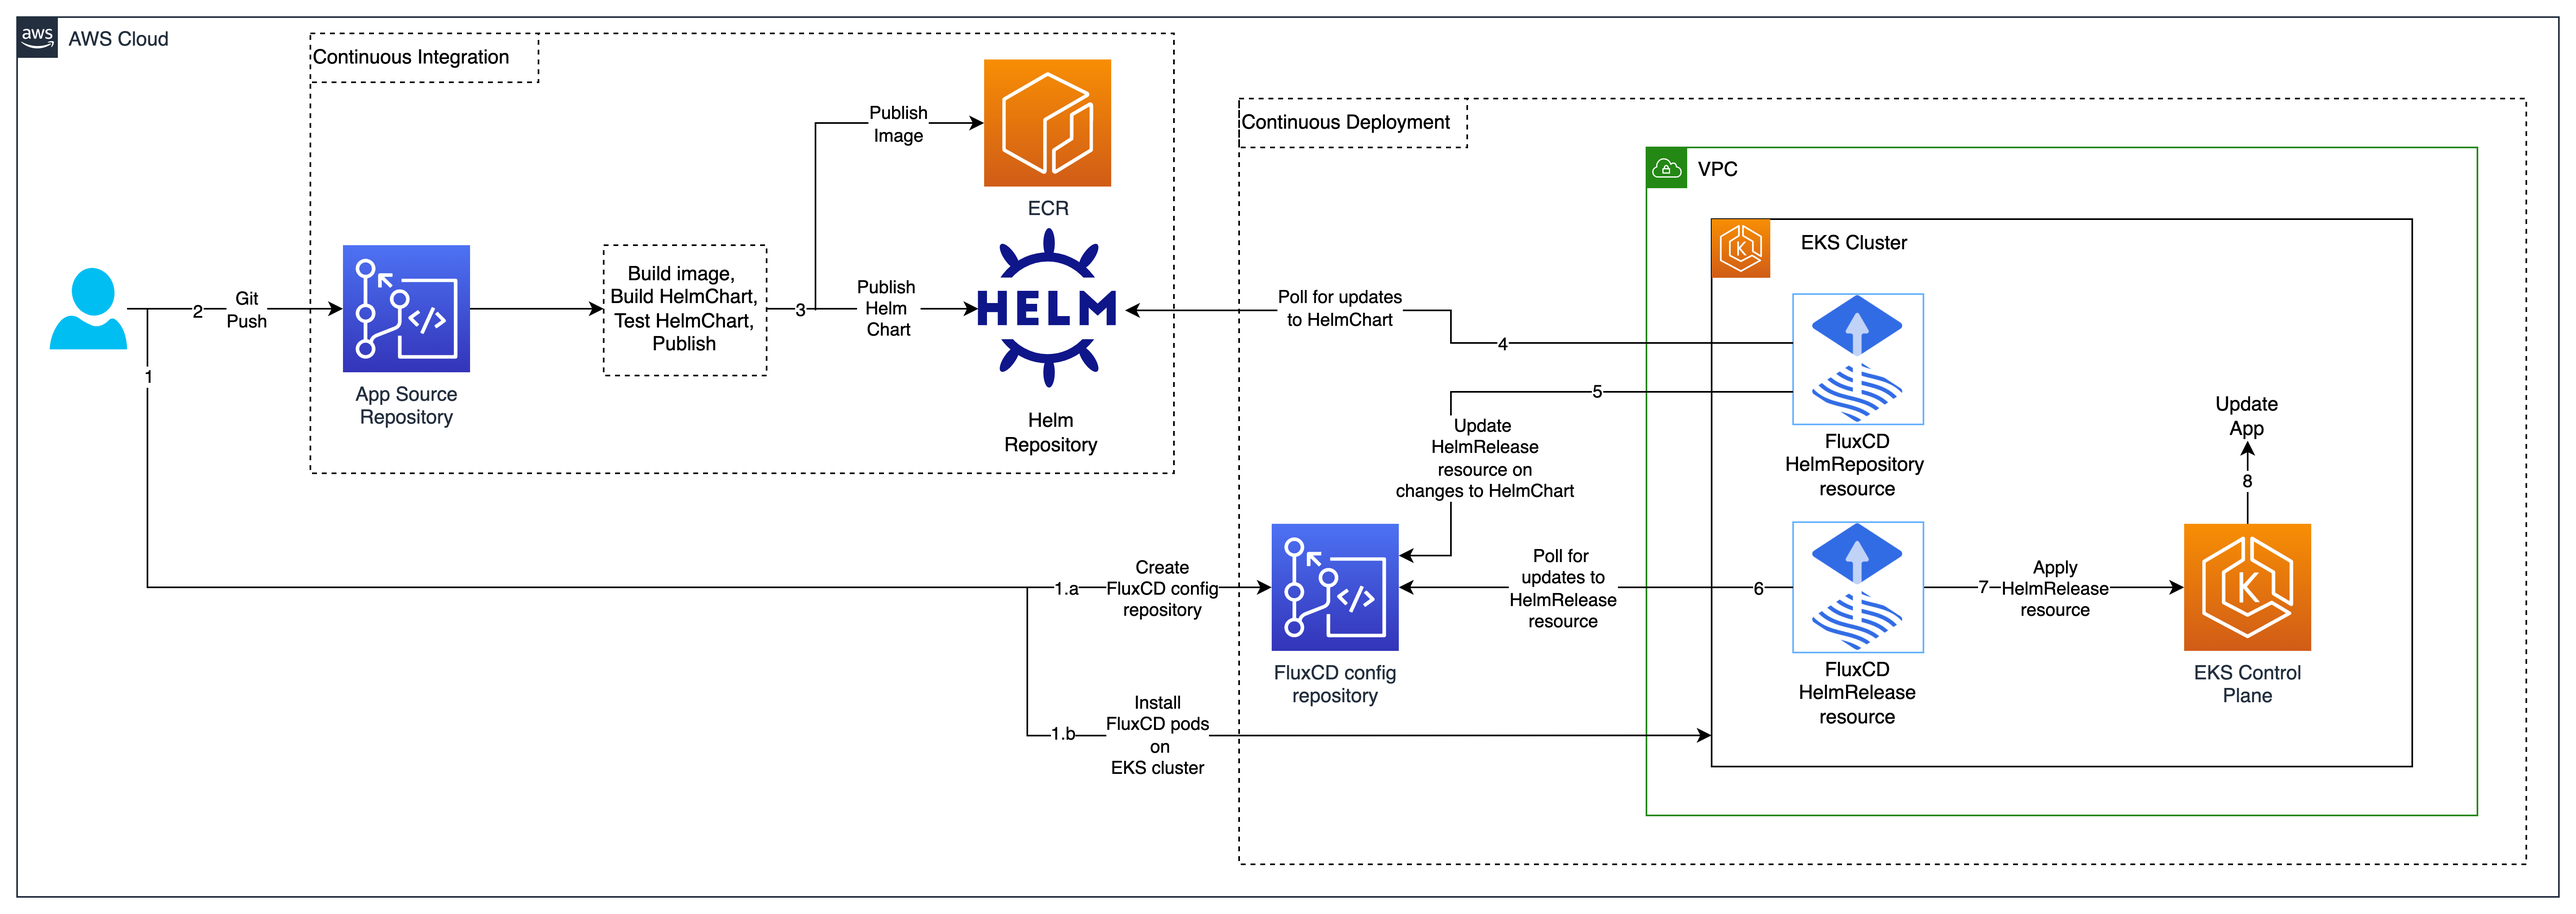
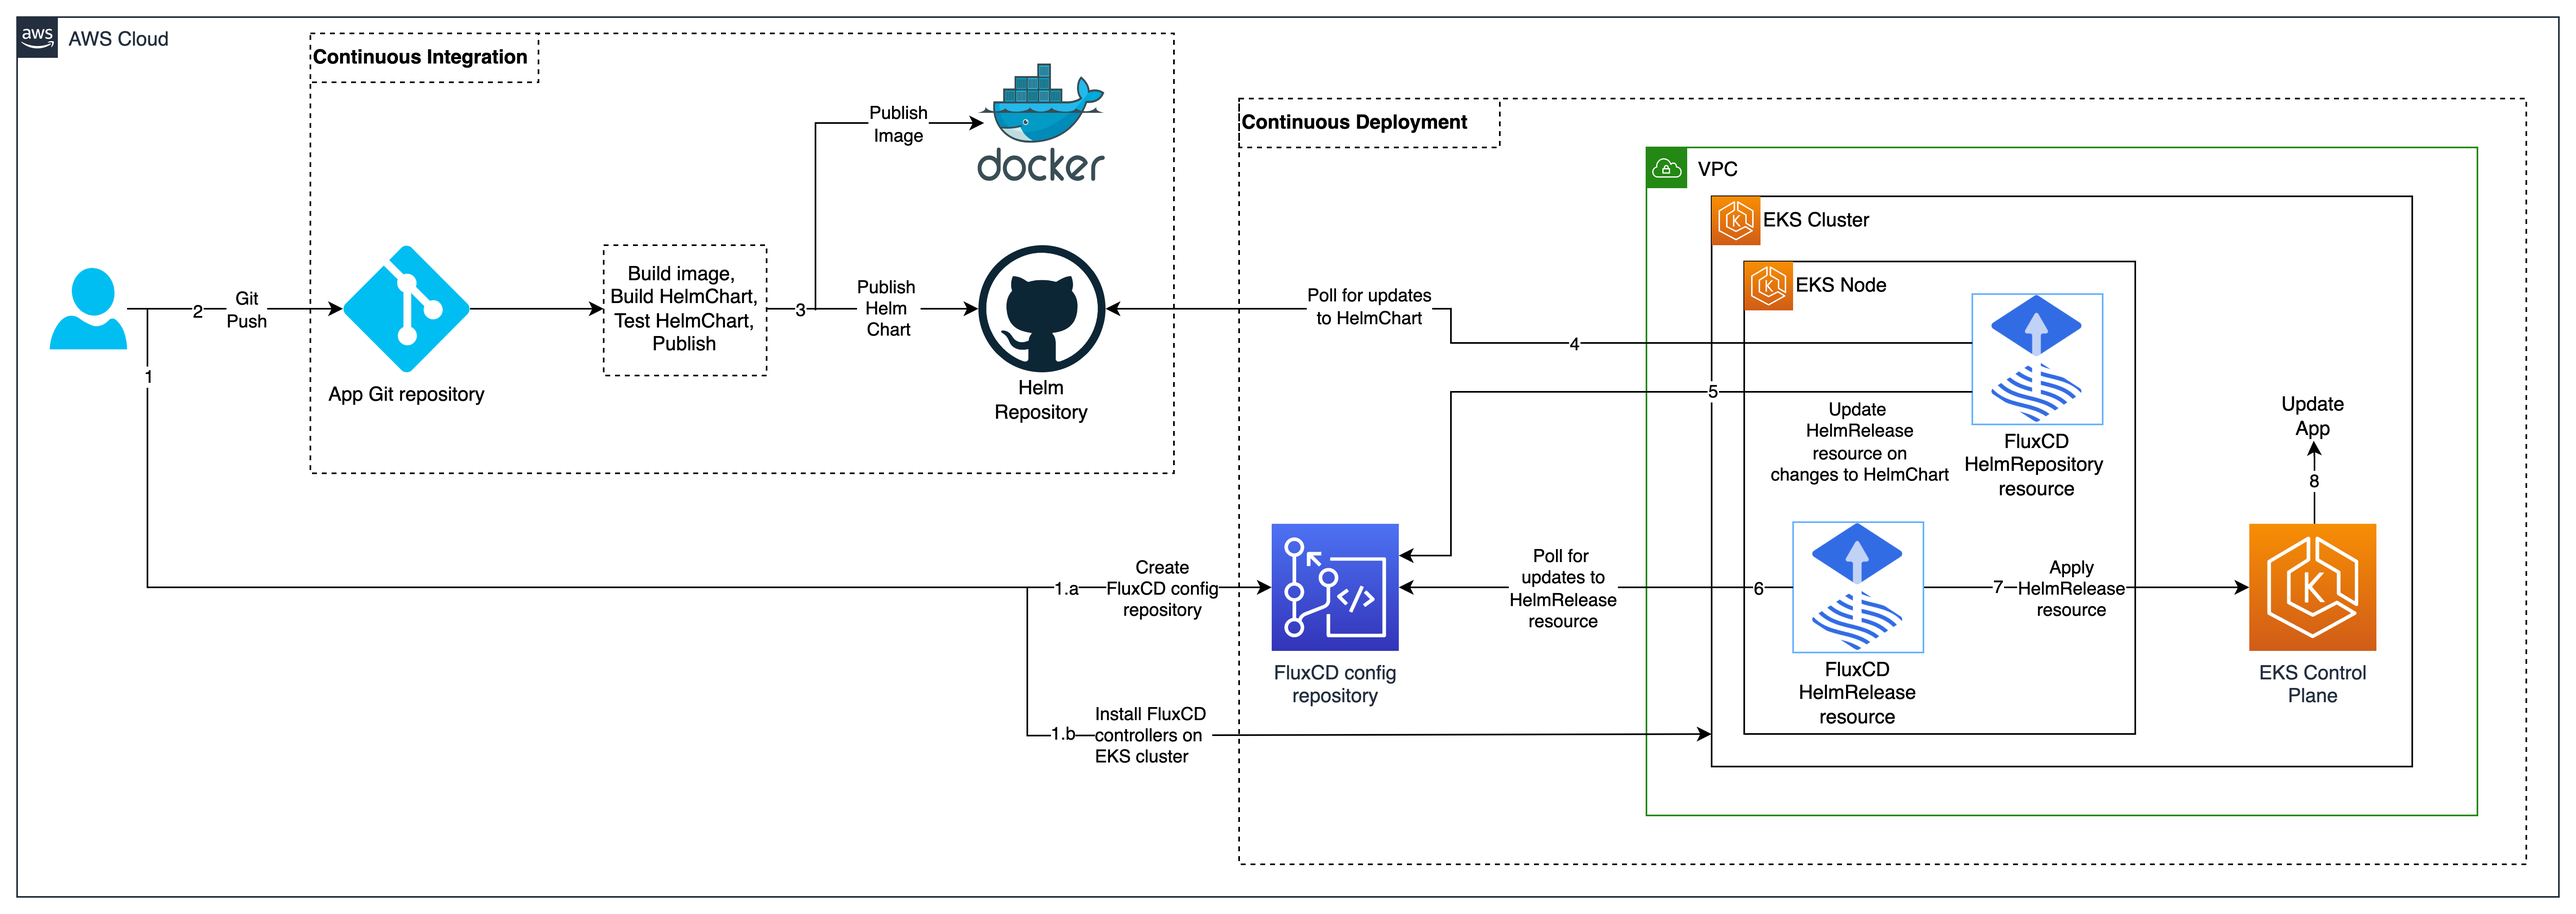
update arch

diff --git a/eks-cluster-cdk/lib/eks-cluster-v1-stack.ts b/eks-cluster-cdk/lib/eks-cluster-v1-stack.ts
@@ -1,0 +1,28 @@
+import * as core from '@aws-cdk/core';
+import * as eks from '@aws-cdk/aws-eks';
+import ec2 = require('@aws-cdk/aws-ec2');
+
+
+export class EksClusterV1Stack extends core.Stack {
+    constructor(scope: core.Construct, id: string, props?: core.StackProps) {
+        super(scope, id, props);
+        //const myVpc = ec2.Vpc.fromLookup(this, 'ImportVPC', {isDefault: false, vpcId: 'vpc-0e7fc4992a33f36e5'});
+        const vpc = new ec2.Vpc(this, 'fluxcluster1');
+
+        const cluster = new eks.Cluster(this, 'Flux-Cluster-1', {
+            version: eks.KubernetesVersion.V1_21,
+            defaultCapacity: 0,
+            vpc: vpc,
+            vpcSubnets: [{subnetType: ec2.SubnetType.PRIVATE}]
+        });
+
+        cluster.addNodegroupCapacity('Flux-Cluster-1-node-group', {
+            instanceTypes: [new ec2.InstanceType('m5.2xlarge')],
+            minSize: 1,
+            diskSize: 100,
+            amiType: eks.NodegroupAmiType.AL2_X86_64,
+            maxSize: 1
+        });
+
+    }
+}

diff --git a/eks-cluster-cdk/bin/app.ts b/eks-cluster-cdk/bin/app.ts
@@ -1,8 +1,13 @@
 #!/usr/bin/env node
 import 'source-map-support/register';
 import * as cdk from '@aws-cdk/core';
-import { EksjamEksClusterV1Stack } from '../lib/eksjam-eks-cluster-v1-stack';
+import { EksClusterV1Stack } from '../lib/eks-cluster-v1-stack';
 
 const app = new cdk.App();
-new EksjamEksClusterV1Stack(app, 'HelmCDFluxClusterV1Stack', {});
+
+new EksClusterV1Stack(app, 'FluxCDClusterStack1', {
+    env: {
+        account: process.env.CDK_DEFAULT_ACCOUNT,
+        region: process.env.CDK_DEFAULT_REGION
+    }})
 

diff --git a/README.md b/README.md
@@ -18,10 +18,11 @@ Updates published to the application’s Helm chart are continuously synced by F
 ```
 
 # Pre-reqs
-* Install kubectl, iam_authenticator
+* Install kubectl, iam_authenticator, eksctl
 * HTTPS Git credentials for CodeCommit
 * Install helm v3
-* Github account
+* GitHub account
+* DockerHub account
 
 # Product Versions
 * Helm V3
@@ -30,32 +31,35 @@ Updates published to the application’s Helm chart are continuously synced by F
 * EKS V1.21
 * NodeJS V1.17
 * Docker V1.21
-* ECR V1.21
 
 # 1. Create EKS cluster; Create CodeCommit repository for FluxCD config
   ```shell
   # Use region us-west-2
   aws configure --profile default
       
-  # Create EKS cluster
-      
-  # Install kubectl, iam_authenticator, 
+  # Install kubectl, eksctl, iam_authenticator   
+  # Create EKS cluster using either EKSCTL or CDK
+  # eksctl 
+  eksctl create cluster --name fluxcluster1 --version=1.21 --nodegroup-name=standard-workers --node-type=t3.medium --nodes=1 --nodes-min=1 --nodes-max=2  --node-ami=auto --managed=false --region=us-west-2
+  # CDK
   cd eks-cluster-cdk
   npm i
   cdk deploy
       
-  # Create a CodeCommit repository = helmcd-flux-config-repo
-  aws codecommit create-repository --repository-name helmcd-flux-config-repo --profile default
-      
-  # https://git-codecommit.us-west-2.amazonaws.com/v1/repos/helmcd-flux-config-repo
+  # Create a CodeCommit repository to store the FluxCD configuration for the EKS cluster
+  aws codecommit create-repository --repository-name fluxcluster1-flux-config-repo --profile default
+  # This will create a codecommit repository at    
+  # https://git-codecommit.us-west-2.amazonaws.com/v1/repos/fluxcluster1-flux-config-repo
+  
+  # From the AWS Console for CodeCommit, create and download HTTP Git credentials for the codecommit repository 
   ```
 
-# 2. Install FluxCD CLI, deploy FluxCD on EKS cluster
+# 2. Install FluxCD CLI on your local workstation; Using the FluxCD CLI, deploy FluxCD controllers on EKS cluster
 * #### 2.1 Install Flux CLI
     ```shell script
-    brew install flux
+    brew install fluxcd/tap/flux
     ```
-
+  
 * #### 2.2 Check pre-requisites on EKS cluster
     ```shell script
     flux check --pre
@@ -66,13 +70,16 @@ Updates published to the application’s Helm chart are continuously synced by F
     # This step is called bootstrapping the EKS cluster with FluxCD configuration. 
     # This step will first write the FluxCD config files to the CodeCommit repo. 
     # Then the FluxCD configuration is installed on the EKS cluster in the namespace flux-system. 
+  
+    # Replace username, password values below with the HTTP Git credentials for codecommit repository
     flux bootstrap git \
-      --url=https://git-codecommit.us-west-2.amazonaws.com/v1/repos/helmcd-flux-config-repo \
-      --username=Admin-at-8732 \
-      --password=1/Lypk1BKAxhsvGNvmzelDc= \
+      --url=https://git-codecommit.us-west-2.amazonaws.com/v1/repos/fluxcluster1-flux-config-repo \
+      --username=user-37732 \
+      --password=VZ8w/mhWf2= \
       --token-auth=true \
-      --path=clusters/helmcd-cluster
+      --path=clusters/fluxcluster1
     ```
+
 
 * #### 2.4 Verify FluxCD pods are running
     ```
@@ -97,47 +104,52 @@ Updates published to the application’s Helm chart are continuously synced by F
     git push -u origin gh-pages
     ```
 
-# 4. Create and upload Helm Chart to the Helm Chart repository
+# 4. Create and upload Helm chart to the Helm chart repository
 
 * #### 4.1 Build and push image to dockerhub
     ```shell script
     cd nodejs-webservice
     npm i
     docker build -t ${username}/testnodeapp:v1 .
+  
+    # Login to DockerHub account 
     docker login
-    docker push
+  
+    # Push app image to dockerhub
+    docker push ${username}/testnodeapp:v1
     ```
 
 * #### 4.2 Create Helm chart for the application
     ```shell script
-    # Create Helm Chart
-    # helm create node-redis-example-app
+    # Create Helm Chart; this command will create a skeleton folder structure for the helm chart
+    # In the templates sub-folder, add k8s workload specs, update Chart.yaml
+    helm create node-redis-example-app
     
-    # Add templates, update Chart.yaml
+    # Package the helm chart; this command will create .tgz file containing a deployable helm chart
     helm package node-redis-example-app
-    mv node-redis-example-app-0.1.0.tgz ./app-helm-charts/
+    mv ./node-redis-example-app-1.0.0.tgz ./app-helm-charts/
     ```
 
 * #### 4.3 Upload Helm chart to Helm Repository
     ```shell script
       
-    # Generate index.yaml 
+    # Generate index.yaml; helm will update the local index.yaml file by scanning the folder for updates 
     helm repo index app-helm-charts/ --url https://$GITHUB_USER.github.io/app-helm-charts
   
-    # Commit and push index.yaml, packaged chart
+    # Push index.yaml, packaged chart to the Helm repository
     git commit -a -m "change index"
     git push origin
   
     # Verify the new index.yaml is being served from helm repo
-    curl https://gree-gorey.github.io/helm-example/index.yaml
+    curl https://$GITHUB_USER.github.io/app-helm-charts/index.yaml
     ```
 
-# 5. Configure FluxCD for continuous deployment of your Helm chart 
+# 5. Configure FluxCD for continuous deployment of your Helm chart
 
 * #### 5.1 Clone the CodeCommit repository to your local
     ```shell script
-    git clone https://git-codecommit.us-west-2.amazonaws.com/v1/repos/helmcd-flux-config-repo
-    cd helmcd-flux-config-repo
+    git clone https://git-codecommit.us-west-2.amazonaws.com/v1/repos/fluxcluster1-flux-config-repo
+    cd fluxcluster1-flux-config-repo
     ```
 
 * #### 5.2 Create K8S namespace into which the test application will be deployed
@@ -145,80 +157,82 @@ Updates published to the application’s Helm chart are continuously synced by F
     kubectl create namespace testns
     ```
 
-* #### 5.3 Create helm repo source CRD for the source repository
+* #### 5.3 Create HelmRepository resource which contains the url for Helm repo
     ```shell script
-    mkdir ./clusters/helmcd-cluster/app2
+    mkdir ./clusters/fluxcluster1/app2
   
-    flux create source helm my-app-charts \
-      --url=https://$GITHUB_USER.github.io/app-helm-charts \
+    flux create source helm testapp-helm-charts \
+      --url=https://$GITHUB_USER.github.io/testapp-helm-charts \
       --interval=1m \
-      --export > ./clusters/helmcd-cluster/app2/podinfo-helm-repo.yaml
+      --export > ./clusters/fluxcluster1/app2/nodewebservice-helm-repo.yaml
     ```
-      
-* #### 5.4 Create custom resource of type HelmRelease which describes the helm chart to monitor
+
+* #### 5.4 Create HelmRelease which contains the details about the Helm Chart to release, and the target namespace
     ```shell script
     flux create hr helm-podinfo \
       --interval=2m \
-      --source=HelmRepository/my-app-charts \
-      --chart=node-redis-example-app \
-      --chart-version=0.1.1 \
-      --target-namespace=testredis3-helm \
-      --export > ./clusters/helmcd-cluster/app2/podinfo-helm-chart.yaml
+      --source=HelmRepository/testapp-helm-charts \
+      --chart=testapp-helm-app \
+      --chart-version>=1.0.0 \
+      --target-namespace=testns \
+      --export > ./clusters/fluxcluster1/app2/nodewebservice-helm-chart.yaml
     ```
-  
+
 * #### 5.5 Commit and push flux config
     ```shell script
     git commit -m "adding helmrelease crd for my app"
     git push
   
-    #Watch for application pods deployment 
-    watch kubectl get pods --namespace testns
+    # Watch for application pods deployment 
+    kubectl get pods --namespace testns
     ```
 
 * #### 5.6 Verify V1 version of the application is deployed
     ```shell script
     # port forward to 3000 on nodejs webservice 
-    kubectl port-forward ${app-podname} -n testns 8081:3000
+    kubectl port-forward $APP_POD_NAME -n testns 8081:3000
     curl http://localhost:8081/hello
     ```
 
-# 6. Push a new revision of your Helm chart and verify continuous deployment 
+# 6. Push a new revision of your Helm chart and verify continuous deployment
 
 * #### 6.1 Update the app to change the hello message, build and push to docker
     ```shell script
-    docker build -t ${username}/testnodeapp:v2 .
-    docker push
+    # Changed the hello message of the app; build a new image
+    docker build -t ${username}/testnodeapp:v2
+    docker push 
     ```
-  
-* #### 6.2 Change template yaml, Chart.yaml in the local chart folder
+
+* #### 6.2 Change template yamls, Chart.yaml in the local chart folder
     ```shell script
-    docker build -t ${username}/testnodeapp:v1 .
+  # Update application manifest to use the new image
+  # Update Chart.yaml to update new version
     ```
 
 * #### 6.3 Package and build a new chart
     ```shell script
     helm package node-redis-example-app
-    mv node-redis-example-app-0.1.1.tgz ./app-helm-charts/
+    mv node-redis-example-app-1.0.1.tgz ./app-helm-charts/
     ```
-  
+
 * #### 6.4 Push new chart to the Helm repo
     ```shell script
-    # Generate index.yaml 
+    # Update index.yaml 
     helm repo index app-helm-charts/ --url https://$GITHUB_USER.github.io/app-helm-charts
       
     # Commit and push index.yaml, packaged chart
+    cd app-helm-charts
     git commit -a -m "change index"
     git push origin
       
     # Verify the new index.yaml is being served
-    curl https://gree-gorey.github.io/helm-example/index.yaml
+    curl https://$GITHUB_USER.github.io/app-helm-charts/index.yaml
   
-    #Watch for application pods deployment 
-    watch kubectl get pods --namespace testns
+    # Watch for application pods deployment 
+    kubectl get pods --namespace testns
     ```
 
 * #### 6.5 Verify V2 version of the application is deployed
     ```shell script
-    kubectl port-forward ${podname} -n testns 8081:3000
+    kubectl port-forward $APP_POD_NAME -n testns 8081:3000
     curl http://localhost:8081/hello
-    ```
